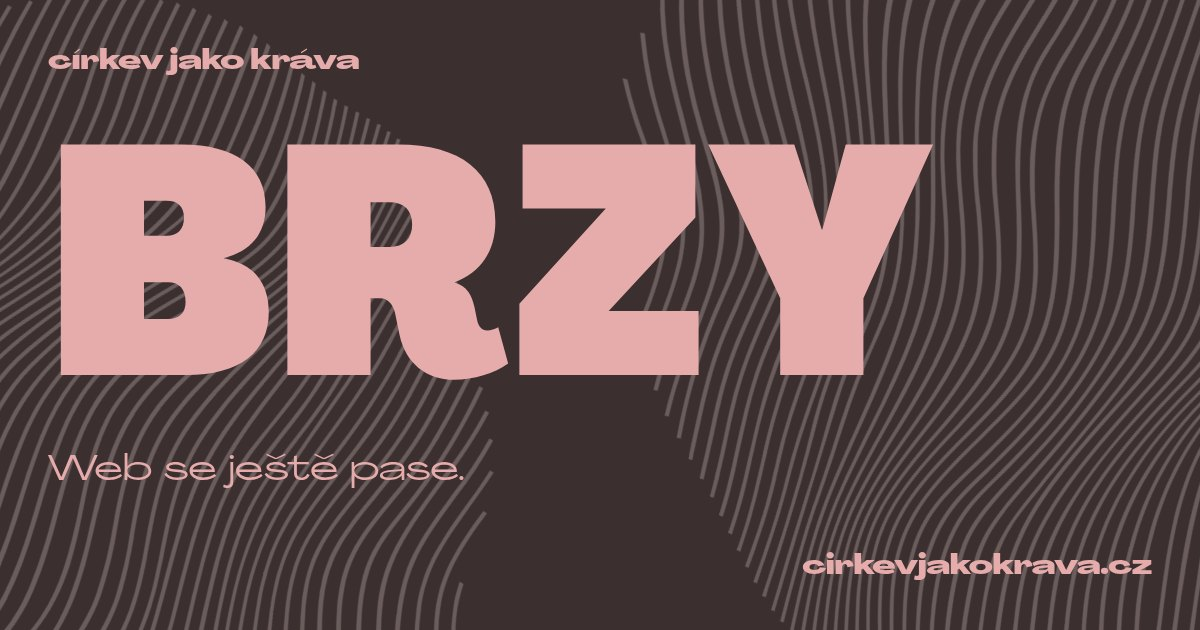
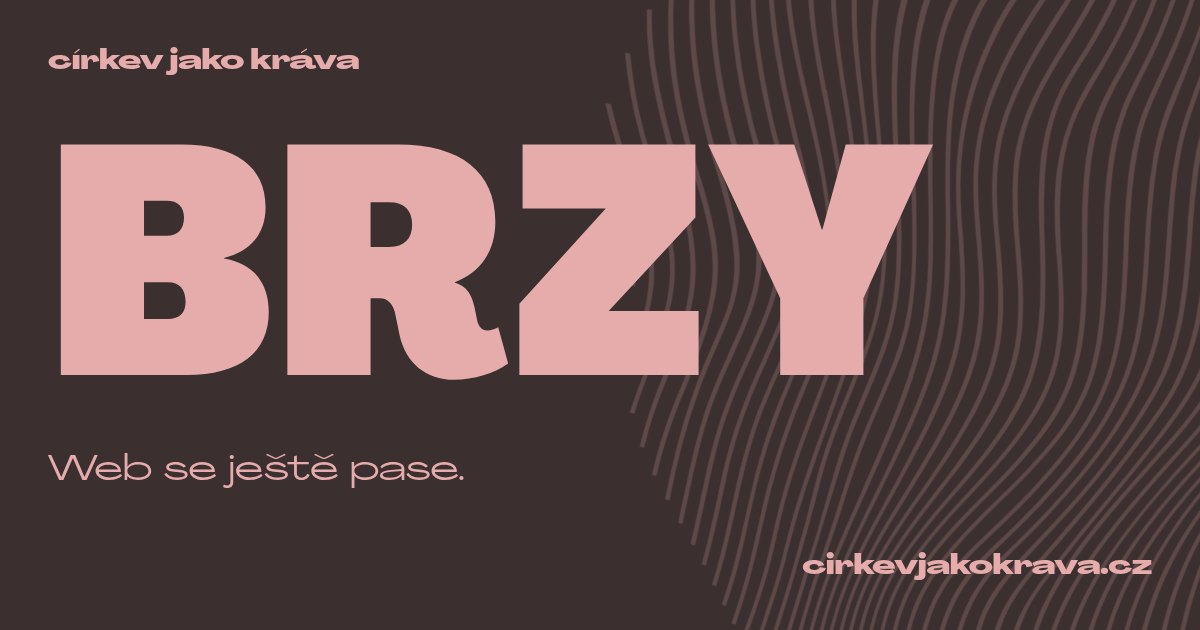
Volba barev z otázek na tělo, jeden otisk, adresa komunitního prostoru
Claude-Session: https://claude.ai/code/session_01J7mRL953RDgotsqjXUt6yM

diff --git a/index.html b/index.html
@@ -25,15 +25,22 @@
 <link rel="icon" href="/assets/favicon-32.png" sizes="32x32" type="image/png">
 <link rel="apple-touch-icon" href="/assets/icon-180.png">
 <link rel="preload" href="/assets/fonts/Agrandir-NarrowBlack.woff" as="font" type="font/woff" crossorigin>
+<!-- volba barev: běží hned v hlavičce, aby se uložená paleta nasadila před vykreslením -->
+<script src="/assets/paleta.js"></script>
 <style>
-/* Barvy, písmo i otisk jako manifest (#3b2f2f / #e6acac, Agrandir, „Group 14“ z Figmy). */
+/* Barvy, písmo i otisk jako manifest (#3b2f2f / #e6acac, Agrandir, „Group 14“ z Figmy),
+   volba barev jako na otázkách na tělo. */
 @font-face{font-family:"Agrandir Grand Heavy";src:url(/assets/fonts/Agrandir-GrandHeavy.woff) format("woff");font-weight:800;font-display:swap}
 @font-face{font-family:"Agrandir";src:url(/assets/fonts/Agrandir-Regular.woff) format("woff");font-weight:400;font-display:swap}
 @font-face{font-family:"Agrandir Narrow Black";src:url(/assets/fonts/Agrandir-NarrowBlack.woff) format("woff");font-weight:900;font-display:swap}
 @font-face{font-family:"Agrandir Grand";src:url(/assets/fonts/Agrandir-Grand.woff) format("woff");font-weight:400;font-display:swap}
 :root{
+  /* Výchozí paleta; ostatní přepíná :root[data-paleta] níž (terč v rohu stránky).
+     --ink-rgb je ta samá barva po složkách – otisk a linky z ní berou průhlednost. */
   --ground:#3b2f2f;
   --ink:#e6acac;
+  --ink-rgb:230,172,172;
+  --print:rgba(var(--ink-rgb),.2);
   --display:"Agrandir Grand Heavy",system-ui,sans-serif;
   --body:"Agrandir",system-ui,sans-serif;
   --narrow:"Agrandir Narrow Black",system-ui,sans-serif;
@@ -42,6 +49,24 @@
   --ease:cubic-bezier(.16,1,.3,1);
   color-scheme:dark;
 }
+/* Hlína a růžová */
+:root[data-paleta="hlina-ruzova"]{--ground:#3b2f2f;--ink:#e6acac;--ink-rgb:230,172,172;color-scheme:dark}
+/* Růžová a hlína */
+:root[data-paleta="ruzova-hlina"]{--ground:#e6acac;--ink:#3b2f2f;--ink-rgb:59,47,47;color-scheme:light}
+/* Zelená a krém */
+:root[data-paleta="zelena-krem"]{--ground:#498660;--ink:#f9e7dd;--ink-rgb:249,231,221;color-scheme:light}
+/* Krém a zelená */
+:root[data-paleta="krem-zelena"]{--ground:#f9e7dd;--ink:#498660;--ink-rgb:73,134,96;color-scheme:light}
+/* Modrá a krém */
+:root[data-paleta="modra-krem"]{--ground:#464994;--ink:#f9e7dd;--ink-rgb:249,231,221;color-scheme:dark}
+/* Krém a modrá */
+:root[data-paleta="krem-modra"]{--ground:#f9e7dd;--ink:#464994;--ink-rgb:70,73,148;color-scheme:light}
+/* Zelená a růžová */
+:root[data-paleta="zelena-ruzova"]{--ground:#498660;--ink:#e6acac;--ink-rgb:230,172,172;color-scheme:light}
+/* Růžová a modrá */
+:root[data-paleta="ruzova-modra"]{--ground:#e6acac;--ink:#464994;--ink-rgb:70,73,148;color-scheme:light}
+/* Krém a hlína */
+:root[data-paleta="krem-hlina"]{--ground:#f9e7dd;--ink:#3b2f2f;--ink-rgb:59,47,47;color-scheme:light}
 *{box-sizing:border-box}
 html{background:var(--ground)}
 body{
@@ -53,24 +78,56 @@ body{
 a{color:inherit;text-decoration:none}
 a:focus-visible{outline:2px solid var(--ink);outline-offset:4px;border-radius:2px}
 
-/* otisk – dva přes okraje, jako na manifestu */
-.otisk{position:absolute;z-index:0;pointer-events:none;opacity:0;width:clamp(560px,78vw,1400px);aspect-ratio:998/816}
-.otisk img{display:block;width:100%;height:100%;opacity:.3}
-.otisk.a{right:-24%;top:-18%;--r:60deg}
-.otisk.b{left:-30%;bottom:-34%;--r:-105deg}
-.otisk{transform:rotate(var(--r)) scale(1.08);animation:tisk 1.8s cubic-bezier(.2,.7,.2,1) .2s forwards}
-.otisk.b{animation-delay:.45s}
+/* otisk – jeden, přes pravý okraj; barvu bere z palety */
+.otisk{
+  position:absolute;z-index:0;pointer-events:none;opacity:0;
+  width:clamp(620px,86vw,1500px);aspect-ratio:998/816;right:-30%;top:50%;margin-top:calc(clamp(620px,86vw,1500px)*-.41);
+  fill:var(--print);overflow:visible;--r:60deg;
+  transform:rotate(var(--r)) scale(1.08);animation:tisk 1.8s cubic-bezier(.2,.7,.2,1) .2s forwards;
+}
 @keyframes tisk{to{opacity:1;transform:rotate(calc(var(--r) + 2deg))}}
 .pozadi{position:absolute;inset:0;overflow:hidden;pointer-events:none}
 
 .page{
   position:relative;z-index:1;min-height:100vh;min-height:100svh;padding:var(--pad);
-  display:grid;grid-template-rows:auto 1fr auto;gap:clamp(2rem,5vh,4rem);
+  display:grid;grid-template-rows:auto 1fr auto;gap:clamp(1.5rem,4vh,4rem);
 }
 .brand,.eyebrow{
   font-family:var(--display);font-weight:800;font-size:clamp(1rem,2.3vw,2.75rem);
   line-height:1.035;margin:0;letter-spacing:-.01em;
 }
+
+.hlava{display:flex;justify-content:space-between;align-items:center;gap:1rem}
+
+/* ---------- volba barev (stejná jako na otázkách na tělo) ----------
+   Terč je ta samá značka jako ve faviconě: kolečko v barvě pozadí s tečkou v barvě textu. */
+.paleta{position:relative;display:flex;font-size:clamp(.92rem,1.2vw,1.05rem);--vyska:2.45em}
+.paleta button{
+  display:grid;place-items:center;padding:0;border:0;background:none;
+  font:inherit;color:inherit;cursor:pointer;line-height:0;
+}
+.paleta .prepinac .terc{height:var(--vyska);width:var(--vyska);box-shadow:inset 0 0 0 1px rgba(var(--ink-rgb),.35)}
+.terc{
+  display:grid;place-items:center;width:1.7em;height:1.7em;border-radius:50%;
+  background:var(--v,var(--ground));box-shadow:0 0 0 1.5px rgba(var(--ink-rgb),.55);
+  transition:box-shadow .2s;
+}
+.terc::before{content:"";width:39%;height:39%;border-radius:50%;background:var(--s,var(--ink))}
+.paleta .prepinac:hover .terc,.paleta .prepinac:focus-visible .terc{
+  box-shadow:inset 0 0 0 1px rgba(var(--ink-rgb),.8),0 0 0 .28em rgba(var(--ink-rgb),.12);
+}
+.paleta-menu{
+  position:absolute;top:calc(100% + .6em);right:0;z-index:5;
+  display:grid;grid-template-columns:repeat(3,auto);gap:.6em;padding:.75em;
+  /* podklad je o chlup jinde než stránka – jinak terč v barvě pozadí splyne s deskou */
+  background:var(--ground) linear-gradient(rgba(var(--ink-rgb),.1),rgba(var(--ink-rgb),.1));
+  border:1px solid rgba(var(--ink-rgb),.35);border-radius:18px;
+  box-shadow:0 14px 34px rgba(0,0,0,.28);
+}
+.paleta-menu[hidden]{display:none}
+.paleta-menu .terc{width:2.2em;height:2.2em}
+.paleta-menu button:hover .terc,.paleta-menu button:focus-visible .terc{box-shadow:0 0 0 2px rgba(var(--ink-rgb),.7)}
+.paleta-menu button[aria-checked="true"] .terc{box-shadow:0 0 0 2px var(--ink)}
 
 .stred{align-self:center;display:flex;flex-direction:column;align-items:flex-start}
 .brzy{
@@ -93,6 +150,7 @@ a:focus-visible{outline:2px solid var(--ink);outline-offset:4px;border-radius:2p
 .odkazy a:hover b,.odkazy a:focus-visible b{text-decoration:underline;text-decoration-thickness:.08em;text-underline-offset:.14em}
 
 .foot{display:flex;justify-content:space-between;align-items:flex-end;gap:1rem 2rem;flex-wrap:wrap}
+.kontakty{display:flex;flex-wrap:wrap;gap:1rem clamp(2rem,5vw,5rem)}
 .kontakt{margin:0;font-size:clamp(1rem,1.55vw,1.875rem);line-height:1.3}
 .kontakt a{border-bottom:.08em solid currentColor;overflow-wrap:anywhere}
 .kontakt a:hover{border-bottom-color:transparent}
@@ -114,14 +172,27 @@ a:focus-visible{outline:2px solid var(--ink);outline-offset:4px;border-radius:2p
 <body>
 
 <div class="pozadi" aria-hidden="true">
-  <div class="otisk a"><img src="/assets/otisk.svg" alt=""></div>
-  <div class="otisk b"><img src="/assets/otisk.svg" alt=""></div>
+  <svg class="otisk" viewBox="0 0 998 816"><path d="M198.326 715.887L194.386 719.832C229.425 725.454 258.428 730.909 286.593 748.195L290.029 744.839C261.446 727.048 232.778 721.51 198.326 715.887Z"/><path d="M189.106 695.749C166.945 692.913 145.012 688.51 123.472 682.575L119.784 686.77C141.769 692.943 164.184 697.459 186.843 700.281C271.924 713.036 298.245 722.854 354.491 789.568L357.676 786.295C300.76 718.658 273.936 708.756 189.106 695.749Z"/><path d="M369.411 771.609C310.734 704.476 293.215 693.4 189.777 672.42C155.04 666.58 121.091 656.753 88.6015 643.134L85.7512 647.246C118.784 661.31 153.408 671.286 188.855 676.952C290.784 697.512 308.304 708.337 366.477 774.798C376.788 786.63 385.086 796.029 395.229 806.435L398.246 802.994C387.852 792.756 379.805 783.525 369.411 771.609Z"/><path d="M381.901 757.679C323.643 689.035 307.13 676.951 190.699 649.175C144.177 638.098 103.103 628.028 61.2749 604.615L58.76 608.644C101.091 632.895 142.584 643.133 190.28 654.462C304.615 681.65 320.709 692.979 378.967 761.287C394.086 780.04 410.711 797.524 428.674 813.567L431.608 810.126C413.647 794.021 397.023 776.481 381.901 757.679Z"/><path d="M461.451 812.475C439.06 793.047 418.545 771.554 400.175 748.28C331.272 666.378 309.059 655.301 221.966 638.517C154.907 625.594 103.775 608.979 39.2303 567.273L36.7993 571.133C99.8348 613.091 150.716 629.874 220.373 643.468C306.712 660.251 328.506 670.573 397.409 752.056C415.752 775.224 436.24 796.607 458.601 815.916L461.451 812.475Z"/><path d="M226.912 622.657C387.853 654.126 327.081 688.112 485.424 815.664L488.274 812.224C330.937 685.678 390.116 649.343 228.839 617.874C149.374 602.35 88.686 579.86 22.3814 532.699L19.9507 536.392C86.4229 584.392 146.776 606.965 226.912 622.657Z"/><path d="M233.365 602.349C325.571 620.223 343.845 634.489 390.87 696.671C429.094 747.02 447.954 762.042 511.325 815.328L514.259 812.055C450.72 758.601 431.692 743.328 393.888 693.147C346.192 629.958 327.667 615.608 235.209 597.65C150.715 580.867 79.9676 554.349 10.9806 501.734L8.38208 505.258C76.8661 558.629 148.2 585.902 233.365 602.349Z"/><path d="M235.88 581.875C331.607 601.092 348.707 613.596 401.097 682.575C450.218 747.442 470.587 758.099 535.215 814.406L538.232 811.134C472.515 753.568 452.984 744.001 404.114 679.302C351.138 609.4 333.954 596.644 237.64 577.092C150.631 559.386 75.0222 530.435 5.36463 474.882L2.51465 478.155C71.8369 534.043 148.536 564.253 235.88 581.875Z"/><path d="M246.693 564.755C338.9 585.315 355.664 597.399 410.904 669.986C471.09 748.867 495.231 755.497 557.344 813.986L560.446 810.965C498.668 752.224 474.862 746.602 413.922 666.881C358.263 594.21 341.75 581.455 248.286 560.308C159.433 540.252 73.0105 509.958 3.93973 451.217L3.269 450.629L2.51462 451.301L0.838293 452.895L4.29596e-06 453.734L0.921943 454.49C70.0766 513.902 158.092 545.035 246.693 564.755Z"/><path d="M247.365 545.623C346.025 570.798 364.718 584.141 423.394 660.673C435.968 676.868 448.961 693.651 463.211 708.672C499.255 746.686 542.341 776.477 579.475 814.574L582.744 811.722C544.855 773.036 502.273 743.666 466.312 705.735C452.062 690.715 438.986 673.931 426.412 657.735C366.562 580.7 347.702 566.518 248.454 541.176C149.207 515.833 59.5155 486.966 9.89187 427.721L9.13749 426.882L5.44922 430.071L6.1197 430.91C60.8566 495.274 162.87 524.393 247.365 545.623Z"/><path d="M214.672 517.258C351.808 552.839 371.004 571.3 434.123 650.098C447.116 666.209 460.444 682.909 475.029 698.265C514.678 740.223 560.697 771.608 600.765 814.992L604.118 812.307C544.1 748.111 513.001 741.902 437.225 647.58C374.273 569.035 354.826 549.986 216.852 513.314C139.985 493.007 60.5206 472.027 21.7101 402.293L21.1233 401.202L16.9321 404.475L17.3514 405.314C57.2515 476.643 137.722 497.37 214.672 517.258Z"/><path d="M242.251 507.021L245.52 508.112C358.682 544.112 381.902 562.405 445.691 641.37C521.72 735.356 561.452 749.79 621.302 815.496L624.571 812.895C562.877 745.762 524.402 731.916 448.961 638.853C385.674 560.643 361.365 540.587 244.934 503.077C168.822 478.573 68.4009 457.846 37.7214 377.79L37.1345 376.364L32.6919 379.804L32.6919 380.56C63.9582 461.455 165.133 482.518 242.251 507.021Z"/><path d="M226.827 482.769C365.723 531.021 391.206 552.839 470.755 644.643C563.547 752.224 560.697 725.035 640.665 815.748L643.934 813.231C561.033 720.084 566.733 749.202 474.024 642.377C393.888 550.07 367.903 528 228.923 478.993C145.099 449.454 66.0531 423.524 55.4075 352.615L55.4075 350.853L50.7134 354.378L50.7134 355.049C61.1914 426.461 139.064 452.224 226.827 482.769Z"/><path d="M244.765 473.287C376.955 524.224 400.51 542.769 491.878 644.392C588.527 752.056 567.738 714.545 659.526 815.664L662.711 813.147C568.325 710.35 592.047 749.622 495.985 642.965C405.036 542.266 381.231 522.126 247.448 469.846C162.45 436.279 84.4944 409.678 74.4356 327.692L74.4356 325.93L69.7415 329.37L69.7415 330.042C79.5488 413.622 160.355 440.727 244.765 473.287Z"/><path d="M275.697 472.196C402.271 524.56 425.238 548.728 476.874 612C545.526 695.916 532.365 662.77 677.045 814.322L680.23 811.805C534.712 660.756 544.017 687.441 479.975 609.232C424.652 542.099 400.762 520.113 279.218 469.176C165.217 421.427 105.535 389.203 93.7155 302.266L88.9375 305.875C100.589 394.91 168.57 427.973 275.697 472.196Z"/><path d="M303.693 468.168C418.196 521.203 436.386 538.321 487.434 601.51C495.398 611.412 503.696 621.65 512.582 631.384C537.729 659.664 566.48 684.168 592.466 711.021C626.666 746.35 663.8 782.182 694.814 812.979L697.832 810.377C683.079 795.944 529.346 644.224 515.683 628.699C507.301 618.965 498.918 608.727 491.039 598.825C440.325 535.888 421.968 518.517 307.381 464.559C214.672 420.923 131.351 380.056 113.077 279.021L108.383 282.461C125.064 383.916 211.738 425.455 303.693 468.168Z"/><path d="M321.045 459.106C433.704 513.483 451.642 531.525 499.422 592.196C508.307 603.441 517.528 615.105 527.335 626.182C541.166 641.875 556.003 657.063 570.421 671.749C635.049 737.623 606.968 714.966 709.987 810.043L712.837 807.357C614.428 717.483 636.055 733.679 572.936 668.56C558.686 653.875 543.932 638.686 530.269 623.161C461.701 545.287 476.119 529.679 324.985 456.168C274.69 431.581 222.049 405.819 182.987 366.294C153.314 336.001 141.075 299.162 130.597 258.294L126.071 261.567C149.541 359.749 184.077 393.064 321.045 459.106Z"/><path d="M342.001 451.3C446.194 504.167 472.85 522.377 566.565 642.629C625.242 718.153 638.989 733.258 725.159 806.769L727.842 803.999C641.587 731.412 627.253 714.713 569.583 640.028C477.376 520.195 450.217 501.482 345.857 448.363C194.974 371.58 182.987 340.112 147.111 238.993L142.836 242.098C176.365 340.615 189.777 374.181 342.001 451.3Z"/><path d="M213.164 335.246C253.148 386.267 307.969 414.798 361.029 442.407C466.144 496.952 491.878 517.512 573.187 630.547C633.037 713.707 649.551 732.588 738.488 801.819L741.086 798.966C652.065 730.407 635.636 711.693 575.953 627.693C495.818 514.826 469.832 493.847 364.466 439.05C311.741 411.609 257.255 383.246 217.607 331.973C191.956 298.826 180.64 259.385 161.696 220.7L157.673 223.722C175.946 262.155 187.179 301.847 213.164 335.246Z"/><path d="M230.851 319.217C288.606 400.112 352.144 427.133 393.218 445.51C475.868 482.601 503.279 500.727 579.81 618.042C637.732 706.825 656.341 728.811 751.732 796.363L754.163 793.343C658.688 726.797 639.576 703.804 582.576 615.104C509.482 501.482 482.658 480.839 395.565 441.734C355.833 424.028 293.887 399.021 235.21 315.86C210.734 281.286 198.998 241.007 174.857 204.251L171.001 207.104C194.472 243.943 206.123 284.475 230.851 319.217Z"/><path d="M404.366 431.749C486.598 467.246 516.858 485.455 586.516 605.204C638.905 695.246 659.694 723.441 763.3 789.232L765.479 786.043C662.711 721.344 642.342 694.994 589.449 602.351C520.798 482.519 490.202 463.637 406.965 427.889C346.36 401.791 291.288 379.973 228.169 257.12C217.267 233.708 203.619 211.679 187.514 191.497L186.844 190.742L183.239 193.344L183.994 194.267C199.312 214.055 212.359 235.504 222.888 258.211C286.007 382.155 344.432 405.903 404.366 431.749Z"/><path d="M417.862 418.239C503.362 454.658 533.12 474.379 593.473 592.281C645.527 694.239 666.483 717.316 773.526 781.176L775.454 777.819C668.83 715.05 647.623 691.721 596.406 589.595C536.975 471.274 506.799 450.966 420.377 414.211C398.899 405.699 378.057 395.66 358.012 384.169C275.445 333.819 254.154 237.903 197.992 178.491L197.405 177.819L193.717 180.42L194.555 181.343C215.02 204.648 232.506 230.412 246.61 258.043C308.807 368.057 340.493 385.26 417.862 418.239Z"/><path d="M361.112 368.309C382.938 381.758 405.912 393.244 429.764 402.631C518.366 440.477 548.291 462.211 600.681 579.441C649.047 687.693 671.009 710.686 783.416 772.448L785.344 769.092C673.44 708.253 651.226 685.176 603.782 576.924C552.566 459.945 522.976 437.372 432.614 398.686C409.372 389.373 386.942 378.146 365.555 365.12C290.113 316.533 285.839 245.623 209.475 165.819L208.888 165.148L205.2 167.749L206.038 168.673C279.049 245.372 287.096 319.889 361.112 368.309Z"/><path d="M434.877 378.545C543.01 431.16 567.402 459.608 609.23 567.692C652.902 680.308 676.289 703.384 791.966 762.713L793.978 759.356C678.217 700.615 655.333 678.042 612.332 565.175C571.007 456.084 546.362 427.468 437.559 374.517C275.779 295.804 337.893 273.818 221.545 154.237L220.875 153.566L217.27 156.167L218.109 157.091C251.082 191.252 279.279 229.728 301.932 271.468C334.204 329.622 383.074 353.37 434.877 378.545Z"/><path d="M457.007 371.665C548.626 412.532 576.875 436.196 617.027 554.434C657.178 672.672 681.655 695.497 801.02 753.063L803.367 749.791C683.667 692.476 659.777 670.238 620.128 552.168C580.479 434.098 553.069 409.511 459.354 367.553C302.688 296.895 357.173 266.854 233.03 141.819L232.36 141.147L228.755 143.917L229.677 144.756C261.638 175.528 289.273 210.505 311.824 248.728C351.221 320.56 394.391 343.805 457.007 371.665Z"/><path d="M458.684 344.896C569.08 402.462 591.797 429.567 626.332 542.182C662.963 662.35 686.434 685.763 809.906 742.91L812.504 739.805C689.2 682.91 665.897 660.252 629.685 539.833C595.569 426.21 572.517 398.853 462.037 340.784C308.472 260.224 371.005 254.518 246.359 130.993L245.688 130.322L242.084 133.091L242.922 133.931C367.149 257.791 304.197 264.252 458.684 344.896Z"/><path d="M470.084 328.195C580.647 389.454 602.274 414.964 635.384 529.594C670.423 651.272 693.055 675.775 819.126 733.09L822.06 730.069C695.067 672.503 673.189 647.748 638.654 527.244C605.711 412.111 584.168 386.013 472.515 323.748C324.063 240.839 377.459 235.971 258.513 119.58L257.842 118.909L254.322 121.678L255.16 122.517C374.19 239.412 320.207 245.118 470.084 328.195Z"/><path d="M478.886 310.238C580.899 368.98 617.614 399.273 659.023 550.742C679.727 626.266 692.552 661.763 829.94 723.945L833.293 721.091C680.23 651.776 682.41 615.189 657.263 529.679C617.279 393.902 579.642 362.937 481.233 305.791C341.834 224.979 387.518 221.035 271.254 108.504L270.584 107.833L267.147 110.686L267.985 111.525C385.003 225.147 337.559 228.924 478.886 310.238Z"/><path d="M484.92 290.098C572.013 342.629 620.296 374.602 665.812 526.909C686.433 596.644 687.019 643.72 841.842 714.797L845.53 712.112C704.119 646.405 692.133 604.531 673.943 540.336C626.834 374.098 578.384 341.119 488.525 286.741C409.06 238.658 399.336 225.399 366.729 187.385C339.905 156.168 314.59 126.63 285.168 98.4337L284.498 97.7622L281.061 100.615L281.983 101.455C393.133 208.783 353.652 210.797 484.92 290.098Z"/><path d="M391.457 194.686C419.454 225.232 455.498 247.637 490.453 269.204C569.499 318.127 627.169 351.525 680.984 533.875C695.905 584.225 705.293 634.155 852.488 705.316L856.427 702.714C699.174 625.931 699.426 578.267 679.476 515.414C625.996 346.91 572.013 314.015 492.381 264.673C416.939 217.596 409.563 207.778 367.986 161.875C345.689 137.204 322.638 111.525 297.91 88.1129L297.155 87.4419L293.802 90.3788L294.724 91.2177C329.008 123.945 359.855 160.113 391.457 194.686Z"/><path d="M362.872 137.707C418.364 197.623 427.416 206.518 496.99 250.322C541.249 278.266 587.017 307.133 615.098 352.028C692.887 476.392 686.768 556.951 733.206 604.783C764.221 636.672 806.049 665.707 864.977 696.084L865.48 696.084L869.671 693.651L867.911 692.727C809.821 662.434 768.16 633.567 736.978 601.931C691.378 555.525 695.737 475.049 618.786 349.679C590.454 303.441 544.015 274.154 499.086 245.707C430.35 202.322 421.046 193.343 364.968 133.175C347.784 114.713 330.097 95.6647 311.405 77.9584L310.65 77.2869L307.381 80.3078L308.219 81.0632C327.331 99.3569 345.437 118.826 362.872 137.707Z"/><path d="M368.405 119.077C426.328 180.588 440.662 192.336 505.038 233.79C555.919 266.518 603.867 297.483 632.031 352.448C708.646 502.238 706.215 556.7 751.229 598.154C789.777 632.358 832.17 661.955 877.551 686.35L878.054 686.35L882.329 683.916L880.653 682.993C835.616 658.4 793.445 628.877 754.917 594.966C709.065 553.007 714.766 506.602 635.552 349.762C607.22 293.623 556.422 260.895 507.302 229.259C443.26 187.972 428.926 176.224 371.255 115.133C356.335 99.3571 340.911 82.9933 324.901 67.8045L324.147 67.1331L320.961 70.2379L321.799 70.9933C337.81 86.5178 353.401 103.049 368.405 119.077Z"/><path d="M510.822 214.659C633.205 292.365 628.175 302.603 711.999 500.561C726.5 535.134 739.074 565.008 768.161 589.848C806.877 621.694 847.926 650.586 890.962 676.281L891.549 676.281L895.824 673.847L894.316 672.84C744.858 580.113 741.253 559.218 716.106 500.477C630.438 300.589 639.994 291.442 513.001 210.631C406.042 142.575 407.551 123.945 338.983 59.1618L338.145 58.4069L335.127 61.5957L335.882 62.3506C405.12 127.637 403.36 146.435 510.822 214.659Z"/><path d="M520.043 200.56C633.959 273.903 642.342 299.077 676.291 391.385C739.997 564.588 758.27 564.924 903.705 665.203L904.291 665.203L908.483 662.686L907.141 661.679C764.641 561.903 744.942 566.686 678.722 386.518C645.192 295.805 636.81 270.043 522.39 196.448C413.838 126.546 413.419 106.071 351.725 48.5881L348.791 51.777C414.341 113.875 411.826 131.245 520.043 200.56Z"/><path d="M528.006 185.539C642.006 257.959 650.724 285.064 679.643 365.036C756.342 577.008 786.686 553.679 915.942 652.364L916.529 652.868L917.87 651.945L919.379 650.938L920.469 650.015L919.379 649.176C789.201 549.735 758.856 573.651 681.99 360.336C653.49 281.455 644.102 254.015 530.437 181.847C442.757 126.295 437.309 114.714 365.472 39.8609L362.705 43.1338C435.464 117.987 437.308 127.973 528.006 185.539Z"/><path d="M544.017 176.392C627.254 227.581 650.054 245.287 680.985 333.735C761.539 564.756 799.93 539.078 926.337 637.847L927.007 638.35L930.863 635.497L929.69 634.574C894.316 606.798 855.925 582.882 819.378 557.036C741.589 502.154 711.077 409.176 679.979 319.553C651.898 238.574 618.62 217.259 547.789 173.791C467.988 124.784 453.403 112.112 378.716 31.8885L375.95 35.1614C450.218 114.462 463.797 127.134 544.017 176.392Z"/><path d="M593.976 189.987C649.048 223.553 667.657 257.119 686.182 314.854C760.534 544.196 819.546 528.84 935.809 622.406L936.48 622.993L940.252 620.14L939.162 619.218C823.821 525.735 762.629 540.756 689.535 313.343C670.423 254.015 651.563 219.86 596.072 186.63C482.826 118.742 461.283 100.783 391.709 24.0002L388.859 27.1891C463.127 108.923 484.167 123.861 593.976 189.987Z"/><path d="M579.055 161.79C642.09 197.203 664.136 207.86 695.067 307.637C763.3 527.413 839.579 519.021 946.035 607.804L946.706 608.308L950.394 605.455L949.388 604.532C843.016 515.161 765.647 524.392 697.917 305.119C666.902 204.42 644.689 193.427 580.061 157.427C509.649 118.238 476.706 98.182 405.959 18.0422L403.025 21.063C473.437 100.448 505.961 120.672 579.055 161.79Z"/><path d="M583.581 147.524C658.185 187.468 671.093 194.433 703.282 301.846C735.47 409.259 783.92 477.65 860.2 524.979C893.577 544.771 925.309 567.221 955.088 592.111L955.759 592.783L959.447 589.846L958.441 588.923C928.673 563.979 896.909 541.526 863.469 521.79C786.519 474.293 737.733 406.07 706.383 300.671C690.54 247.972 678.302 197.706 627.086 167.328C552.483 122.936 509.23 116.224 421.382 14.0137L420.628 13.0903L417.694 16.1116C486.01 94.9089 525.743 116.559 583.581 147.524Z"/><path d="M633.204 159.692C682.157 190.825 692.971 236.307 708.646 288.923C738.738 390.629 788.697 459.944 865.815 507.104C900.223 526.898 932.719 549.85 962.883 575.664L963.638 576.252L967.159 573.23L966.236 572.475C936.069 546.427 903.481 523.328 868.917 503.496C792.302 457.09 740.918 386.014 711.58 287.496C695.905 234.545 685.259 188.895 636.138 157.007C576.288 118.405 523.898 113.034 437.308 10.489L436.638 9.56604L433.62 12.4194L434.291 13.1744C520.378 114.461 572.851 121.426 633.204 159.692Z"/><path d="M450.134 10.4053C536.305 113.202 589.952 112.531 645.024 153.063C691.966 187.804 700.097 233.455 716.526 286.741C744.02 376.28 799.176 444.755 885.096 496.531C915.619 514.034 944.196 534.738 970.344 558.294L971.099 558.965L974.452 555.944L973.614 555.105C947.446 531.254 918.747 510.346 888.03 492.755C801.775 441.063 746.535 373.175 719.376 285.147C702.612 231.776 694.648 186.126 647.539 150.881C592.467 108.923 539.155 110.937 453.152 8.22388L452.398 7.3844L449.464 10.1538L450.134 10.4053Z"/><path d="M466.228 8.13983C557.26 117.231 615.099 105.902 668.411 160.447C704.036 197.035 708.814 241.93 725.243 288.587C758.773 382.741 834.214 443.832 891.382 478.489C921.946 495.914 950.482 516.685 976.463 540.42L977.301 541.007L980.57 537.986L979.732 537.231C953.61 513.07 924.81 491.981 893.896 474.378C836.226 439.469 760.533 378.378 727.842 286.07C711.077 239.496 706.215 194.853 670.422 157.678C615.853 101.035 560.948 115.72 469.245 5.45447L468.491 4.61499L465.473 7.38434L466.228 8.13983Z"/><path d="M482.909 6.63062C571.678 112.281 621.218 92.812 673.943 153.064C704.79 188.309 711.915 228.085 727.339 270.546C773.609 397.931 894.399 435.19 982.414 522.295L983.169 523.05L986.354 519.945L985.6 519.106C898.255 431.833 776.46 394.407 730.105 268.784C714.43 226.323 707.221 186.547 676.458 151.302C623.313 89.5396 572.851 108.337 486.01 4.44873L485.256 3.60925L482.238 6.29462L482.909 6.63062Z"/><path d="M500.764 6.29401C524.234 31.4688 549.968 57.9863 584.587 76.5317C658.855 116.308 681.823 128.644 720.047 229.343C723.651 238.826 727.423 248.644 731.447 258.546C778.304 372.923 902.196 424.448 986.942 502.909L987.696 503.665L990.881 500.476L990.043 499.72C961.252 474.057 930.875 450.234 899.094 428.392C762.881 330.378 748.212 293.623 722.226 226.154C684.506 127.805 661.957 113.203 587.354 73.4269C555.589 55.1476 527.229 31.4975 503.53 3.52515L502.859 2.76968L499.758 5.45505L500.764 6.29401Z"/><path d="M722.979 207.692C689.45 126.713 672.685 106.993 596.154 58.8248C569.557 43.6391 544.948 25.2043 522.892 3.94382L522.137 3.18835L519.12 5.95773L519.874 6.79669C542.251 28.2578 567.197 46.8613 594.142 62.1816C672.098 110.685 687.941 130.657 721.135 211.636C726.081 223.636 731.194 236.14 736.81 248.223C785.344 351.86 910.577 408.335 990.713 483.189L991.467 483.944L994.568 480.755L993.814 480C964.656 453.938 933.857 429.777 901.608 407.664C764.556 308.056 750.725 274.741 722.979 207.692Z"/><path d="M744.606 233.706C734.288 216.563 725.454 198.567 718.202 179.916C690.875 115.216 677.379 96.671 605.794 50.9367C582.641 37.3224 561.077 21.1668 541.501 2.76895L538.399 5.62231C558.246 24.2433 580.121 40.5697 603.614 54.2935C675.032 99.6922 688.612 118.07 716.274 183.608C723.458 201.862 732.034 219.536 741.924 236.475C799.678 329.79 914.182 389.035 993.395 461.958L994.15 462.713L997.251 459.524L996.413 458.769C917.283 385.175 803.534 325.846 744.606 233.706Z"/><path d="M720.466 161.958C695.318 103.72 683.751 85.8461 612.417 38.8531C595.358 28.133 578.98 16.362 563.38 3.60822L560.362 6.62958C576.191 19.5577 592.821 31.4696 610.153 42.2939C680.901 88.6156 692.552 105.986 718.118 165.231C741.589 219.776 754.917 250.658 900.687 363.273C932.372 387.776 965.063 413.035 993.48 439.384L994.234 440.14L997.335 437.035L996.497 436.28C967.075 408.503 933.127 382.154 900.351 356.643C755.253 243.944 743.182 214.238 720.466 161.958Z"/><path d="M727.255 148.699C702.778 94.3216 689.618 75.1884 615.602 24.0835C602.357 14.9367 595.735 10.3216 585.676 2.93701L582.826 6.20935C593.137 13.7618 601.603 19.5523 613.171 27.5244C686.181 77.874 699.677 96 724.489 151.888C732.833 173.572 744.514 193.817 759.108 211.888C827.592 287.412 920.636 344.559 993.395 416.307L994.15 417.063L997.167 413.874L996.413 413.119C961.866 379.81 925.485 348.46 887.442 319.217C753.743 212.392 748.714 196.364 727.255 148.699Z"/><path d="M730.273 135.02C755.42 185.37 759.862 195.44 878.808 291.44C918.458 322.233 956.271 355.324 992.054 390.545L992.892 391.384L995.826 388.027L995.072 387.272C958.668 350.989 920.034 317.021 879.395 285.566C762.88 191.328 758.689 181.594 732.871 131.244C701.773 70.4888 687.439 55.7196 608.896 1.17413L606.214 4.61447C684.421 58.5725 699.342 73.5938 730.273 135.02Z"/><path d="M784.758 184.867C849.972 246.629 925.582 296.139 988.282 361.09L989.12 361.929L991.97 358.405L991.299 357.734C928.767 292.195 853.241 242.852 788.027 181.51C729.853 126.545 747.623 78.7125 635.048 0.922302L632.617 4.44714C746.869 83.4122 726.249 129.482 784.758 184.867Z"/><path d="M797.416 170.77C856.093 226.742 925.08 270.042 981.829 328.364L982.667 329.287L985.601 325.594L984.93 324.924C928.098 266.182 859.194 223.301 800.518 167.413C746.2 115.385 724.573 47.9162 661.706 9.15817e-05L659.275 3.60843C721.975 51.3567 743.015 118.742 797.416 170.77Z"/><path d="M689.2 5.37033C737.734 49.7619 762.462 111.692 809.738 157.426C860.033 206.517 922.481 242.685 973.195 292.363L974.033 293.202L976.967 289.594L976.212 288.923C925.918 238.573 863.218 203.076 812.84 154.153C765.815 108.587 740.751 46.5733 691.966 1.84601L690.96 1.00653L688.529 4.69885L689.2 5.37033Z"/><path d="M721.303 12.7556C757.264 54.7136 781.489 107.161 821.305 145.762C863.217 186.126 916.026 213.903 959.195 253.007L960.033 253.762L963.051 250.154L962.297 249.483C919.043 210.126 865.815 182.853 824.323 142.574C784.758 104.224 760.533 51.1051 724.321 9.48274L723.399 8.39178L720.716 12.0841L721.303 12.7556Z"/><path d="M758.437 30.5451C782.745 65.0346 801.69 105.23 832.202 135.188C862.713 165.146 902.781 182.853 938.239 209.622L941.508 206.181C906.134 179.832 865.647 162.209 835.135 132.251C804.624 102.293 786.099 61.9298 761.79 27.4403L760.951 26.2653L757.934 29.8737L758.437 30.5451Z"/><path d="M882.16 156.001L885.01 153.231C856.359 134.898 831.906 110.704 813.257 82.2381L810.407 85.1755C829.287 113.405 853.698 137.5 882.16 156.001Z"/></svg>
 </div>
 
 <div class="page">
 
-  <header>
+  <header class="hlava">
     <p class="eyebrow">církev jako kráva</p>
+    <div class="paleta">
+      <button class="prepinac" type="button" aria-expanded="false" aria-haspopup="true" aria-label="Barvy stránky" title="Barvy stránky"><span class="terc"></span></button>
+      <div class="paleta-menu" role="menu" aria-label="Barvy stránky" hidden>
+      <button type="button" role="menuitemradio" aria-checked="false" data-paleta="hlina-ruzova" title="Hlína a růžová" aria-label="Hlína a růžová"><span class="terc" style="--v:#3b2f2f;--s:#e6acac"></span></button>
+      <button type="button" role="menuitemradio" aria-checked="false" data-paleta="ruzova-hlina" title="Růžová a hlína" aria-label="Růžová a hlína"><span class="terc" style="--v:#e6acac;--s:#3b2f2f"></span></button>
+      <button type="button" role="menuitemradio" aria-checked="false" data-paleta="zelena-krem" title="Zelená a krém" aria-label="Zelená a krém"><span class="terc" style="--v:#498660;--s:#f9e7dd"></span></button>
+      <button type="button" role="menuitemradio" aria-checked="false" data-paleta="krem-zelena" title="Krém a zelená" aria-label="Krém a zelená"><span class="terc" style="--v:#f9e7dd;--s:#498660"></span></button>
+      <button type="button" role="menuitemradio" aria-checked="false" data-paleta="modra-krem" title="Modrá a krém" aria-label="Modrá a krém"><span class="terc" style="--v:#464994;--s:#f9e7dd"></span></button>
+      <button type="button" role="menuitemradio" aria-checked="false" data-paleta="krem-modra" title="Krém a modrá" aria-label="Krém a modrá"><span class="terc" style="--v:#f9e7dd;--s:#464994"></span></button>
+      <button type="button" role="menuitemradio" aria-checked="false" data-paleta="zelena-ruzova" title="Zelená a růžová" aria-label="Zelená a růžová"><span class="terc" style="--v:#498660;--s:#e6acac"></span></button>
+      <button type="button" role="menuitemradio" aria-checked="false" data-paleta="ruzova-modra" title="Růžová a modrá" aria-label="Růžová a modrá"><span class="terc" style="--v:#e6acac;--s:#464994"></span></button>
+      <button type="button" role="menuitemradio" aria-checked="false" data-paleta="krem-hlina" title="Krém a hlína" aria-label="Krém a hlína"><span class="terc" style="--v:#f9e7dd;--s:#3b2f2f"></span></button>
+      </div>
+    </div>
   </header>
 
   <main class="stred">
@@ -134,7 +205,10 @@ a:focus-visible{outline:2px solid var(--ink);outline-offset:4px;border-radius:2p
   </main>
 
   <footer class="foot rise">
-    <p class="kontakt">Máš dotaz? Napiš nám:<br><a href="mailto:ahoj@cirkevjakokrava.cz">ahoj@cirkevjakokrava.cz</a></p>
+    <div class="kontakty">
+      <p class="kontakt">Máš dotaz? Napiš nám:<br><a href="mailto:ahoj@cirkevjakokrava.cz">ahoj@cirkevjakokrava.cz</a></p>
+      <p class="kontakt">Komunitní prostor v budově Monta<br>B. Martinů 1885/2, 3. patro, na konci chodby</p>
+    </div>
     <p class="brand">cirkevjakokrava.cz</p>
   </footer>
 

diff --git a/assets/paleta.js b/assets/paleta.js
@@ -1,0 +1,76 @@
+/* Volba barev stránky.
+   Barvy drží :root[data-paleta]; skript jen přepíná ten atribut a pamatuje si volbu
+   v localStorage. Běží v hlavičce, aby se uložená paleta nasadila ještě před vykreslením
+   a stránka neproblikla výchozími barvami. Když localStorage není (soukromé okno,
+   zakázaná data), přepínání funguje dál, jen si volbu stránka nezapamatuje. */
+(function () {
+  var KLIC = 'web-paleta';
+  var koren = document.documentElement;
+
+  function uloz(jmeno) {
+    try { localStorage.setItem(KLIC, jmeno); } catch (chyba) { /* bez paměti to taky jde */ }
+  }
+
+  function prohlizec() {
+    var meta = document.querySelector('meta[name="theme-color"]');
+    var barva = getComputedStyle(koren).getPropertyValue('--ground').trim();
+    if (meta && barva) { meta.setAttribute('content', barva); }
+  }
+
+  try {
+    var ulozena = localStorage.getItem(KLIC);
+    if (ulozena) { koren.dataset.paleta = ulozena; }
+  } catch (chyba) { /* viz výše */ }
+
+  document.addEventListener('DOMContentLoaded', function () {
+    prohlizec();
+    var obal = document.querySelector('.paleta');
+    if (!obal) { return; }
+    var prepinac = obal.querySelector('.prepinac');
+    var menu = obal.querySelector('.paleta-menu');
+    var volby = Array.prototype.slice.call(menu.querySelectorAll('button'));
+
+    function oznac() {
+      var ted = koren.dataset.paleta || volby[0].dataset.paleta;
+      volby.forEach(function (volba) {
+        volba.setAttribute('aria-checked', String(volba.dataset.paleta === ted));
+      });
+    }
+
+    function zavri() {
+      menu.hidden = true;
+      prepinac.setAttribute('aria-expanded', 'false');
+    }
+
+    function otevri() {
+      oznac();
+      menu.hidden = false;
+      prepinac.setAttribute('aria-expanded', 'true');
+    }
+
+    oznac();
+
+    prepinac.addEventListener('click', function (udalost) {
+      udalost.stopPropagation();
+      if (menu.hidden) { otevri(); } else { zavri(); }
+    });
+
+    volby.forEach(function (volba) {
+      volba.addEventListener('click', function () {
+        koren.dataset.paleta = volba.dataset.paleta;
+        uloz(volba.dataset.paleta);
+        prohlizec();
+        oznac();
+        zavri();
+        prepinac.focus();
+      });
+    });
+
+    document.addEventListener('click', function (udalost) {
+      if (!menu.hidden && !obal.contains(udalost.target)) { zavri(); }
+    });
+    document.addEventListener('keydown', function (udalost) {
+      if (udalost.key === 'Escape' && !menu.hidden) { zavri(); prepinac.focus(); }
+    });
+  });
+})();

diff --git a/README.md b/README.md
@@ -1,19 +1,21 @@
 # Církev jako kráva – hlavní web
 
 Zatím jen přistávací stránka „BRZY“ s odkazy na [manifest](https://manifest.cirkevjakokrava.cz),
-[otázky na tělo](https://otazky.cirkevjakokrava.cz) a kontaktem `ahoj@cirkevjakokrava.cz`.
+[otázky na tělo](https://otazky.cirkevjakokrava.cz), kontaktem `ahoj@cirkevjakokrava.cz` a adresou
+komunitního prostoru v budově Monta.
 
 **Živě:** https://cirkevjakokrava.cz (GitHub Pages z kořene větve `main`)
 
 Sourozenec repozitářů `cirkevjakokrava` (manifest) a `otazky` – stejné barvy (`#3b2f2f` / `#e6acac`),
-písmo Agrandir i otisk z Figmy.
+písmo Agrandir i otisk z Figmy. Terč v pravém horním rohu přepíná barvy stránky – stejných devět palet
+jako na otázkách na tělo (pravidla `:root[data-paleta]` v `index.html`, přepínání v `assets/paleta.js`).
 
 ## Struktura
 
 ```
-index.html              celá stránka, styly jsou uvnitř – žádný build
+index.html              celá stránka i s otiskem, styly jsou uvnitř – žádný build
 CNAME                   cirkevjakokrava.cz
-assets/otisk.svg        otisk („Group 14“ z Figmy, stejné křivky jako manifest)
+assets/paleta.js        volba barev – převzatá z otázek na tělo, volbu si pamatuje v localStorage
 assets/fonts/*.woff     Agrandir – subset (latinka, čeština, šipka)
 assets/favicon.svg      ikona webu (+ favicon-32.png, icon-180.png) – převzaté z manifestu
 assets/og.jpg           náhled při sdílení odkazu (1200×630, vyfocená stránka)
